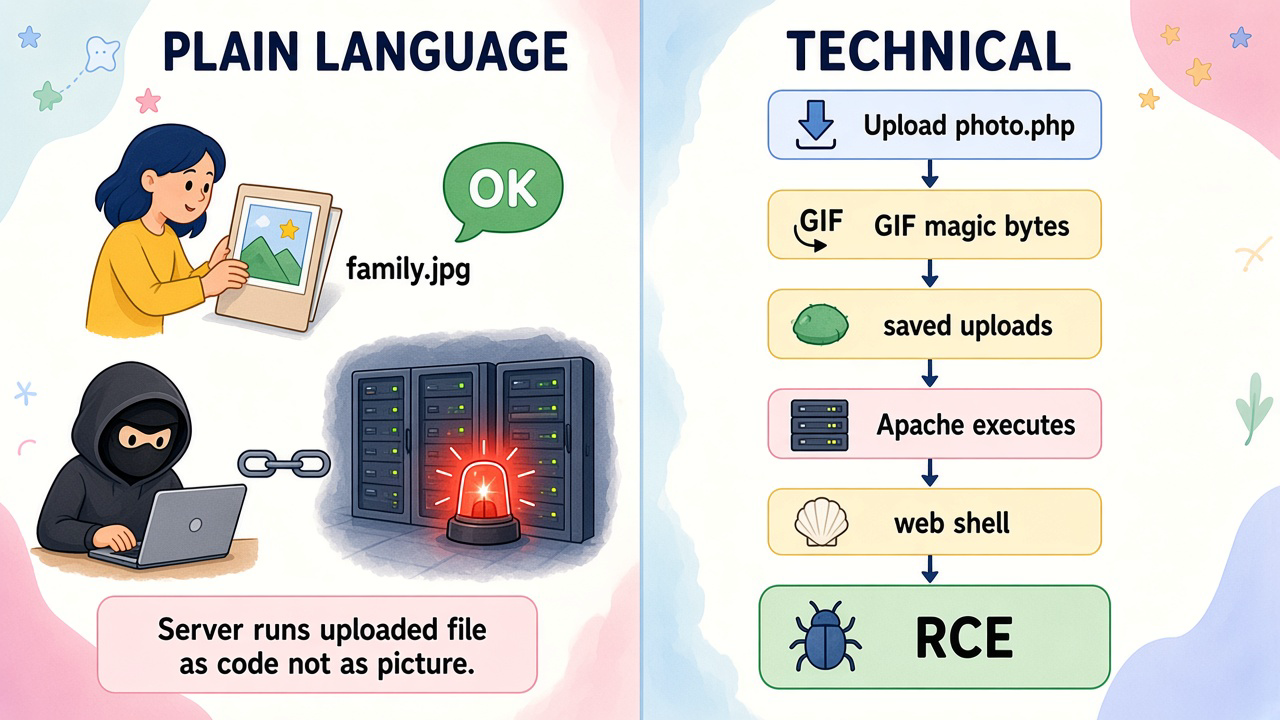
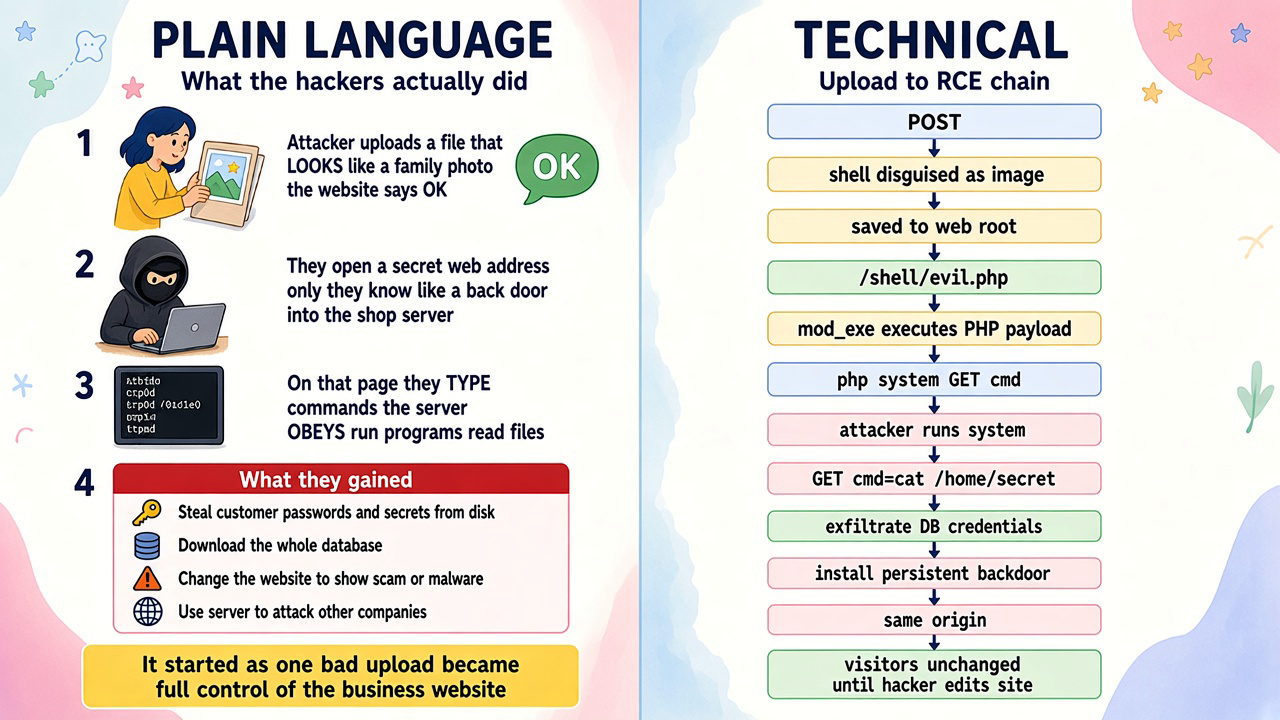
Clarify PHP web shell case: hacker impact on plain-language panel

diff --git a/FileUpload/presentation/historical-cases/README.md b/FileUpload/presentation/historical-cases/README.md
@@ -15,9 +15,18 @@ Each case has a **dual PNG** in [`illustrations/`](illustrations/): **PLAIN LANG
 | **OWASP — Unrestricted File Upload** | https://owasp.org/www-community/vulnerabilities/Unrestricted_File_Upload |
 | **ZeroExp — disable execution in upload dirs** | https://zeroexp.dev/library/prevent-upload-execution |
 
-**Plain language:** Someone uploads what looks like a picture; the server runs it as code and the attacker owns the machine.
+**Plain language (story):**
 
-**Technical:** Upload `shell.php` (sometimes with a GIF header) → stored under a web root that executes PHP → `GET` = RCE.
+1. Attacker uploads a file that **looks like a normal photo** — the site accepts it.
+2. They keep a **private URL** (like a hidden door) to that file on your server.
+3. Opening that URL is **not** “viewing a picture” — the server **runs** the file and lets them **type commands**.
+4. **What hackers do next (impact):**
+   - Read secrets from disk (config, keys, `secret` files)
+   - Dump or copy the **database** (customers, passwords hashes, orders)
+   - **Change the shop** (defacement, scam page, malware for visitors)
+   - **Pivot** — use your server to attack others (spam, bots, mining)
+
+**Technical:** `POST` upload (`shell.php` or `.php5`, sometimes GIF magic bytes) → saved under a web-served path → `GET /uploads/evil.php?cmd=…` → `mod_php` executes → `system($_GET['cmd'])` → RCE as the web-server user → exfiltration + persistent backdoor.
 
 ---
 
